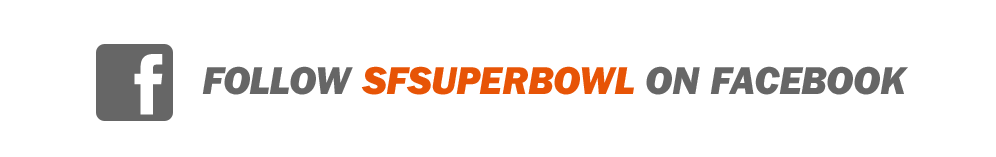
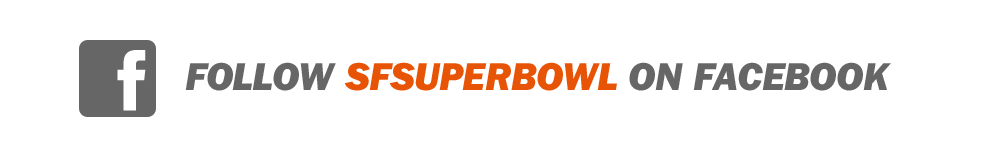
adding new facebook image

Changed region(s): [[0.0622, 0.2548, 0.9337, 0.7898]]

diff --git a/buzz/train-full.php b/buzz/train-full.php
@@ -252,6 +252,6 @@
 
 <ul class="trainCar" data-pos="335">
     <li class="trainCompartmentLong" data-pos="">
-        <a href="http://www.facebook.com/sfsuperbowl" class="ajaxify"><img src="../images/coming-soon-facebook.jpg" /></a>
+        <a href="http://www.facebook.com/sfsuperbowl" class="ajaxify"><img src="../images/coming-soon-facebook.png" /></a>
     </li>
 </ul>
